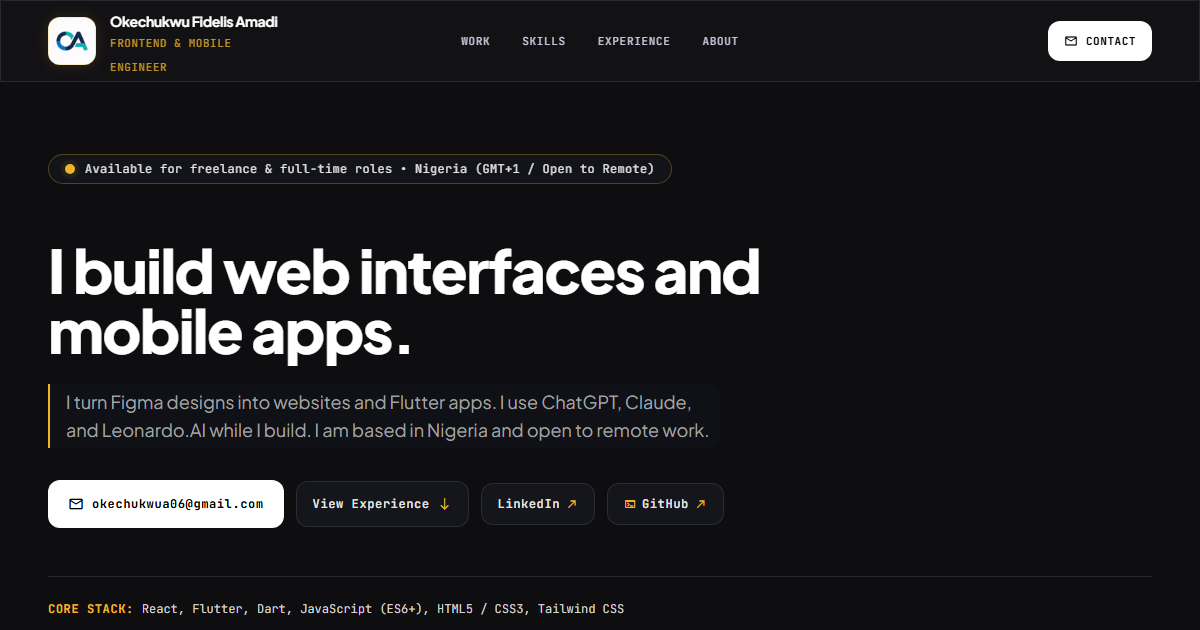
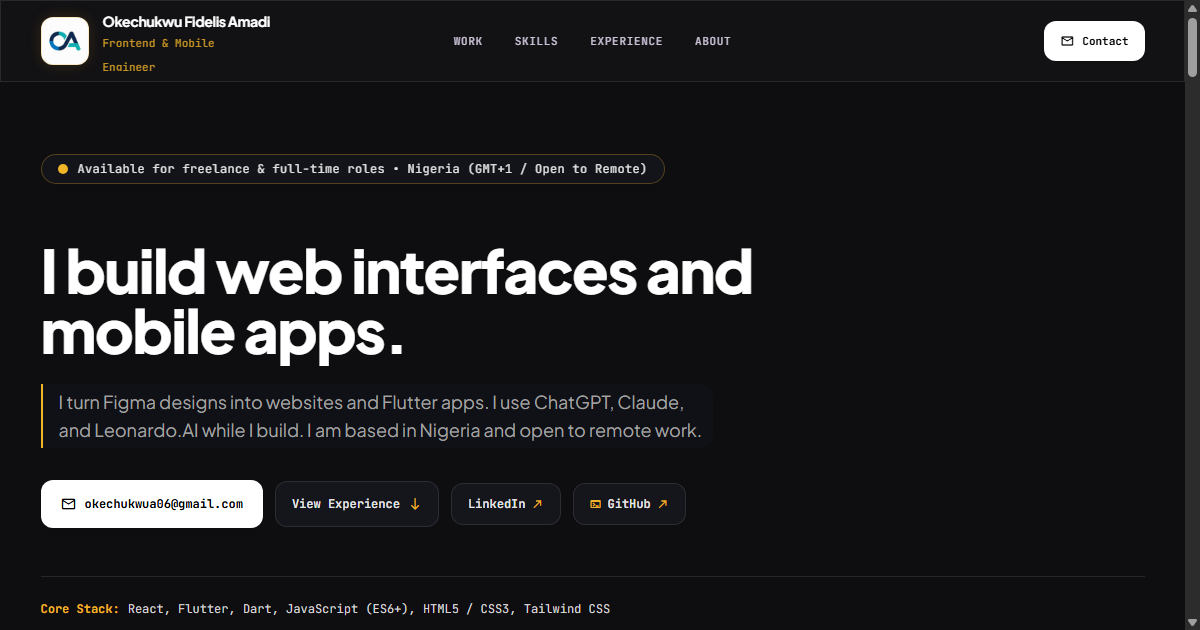
Drop uppercase eyebrow styling for plain typography
Sentence-case rendering for taglines, buttons, labels, category
lines, and the footer line; re-capture og-image to match the hero.

Generated with Codebuff 🤖

diff --git a/partials/contact.html b/partials/contact.html
@@ -14,23 +14,23 @@
     </p>
 <div class="space-y-3 font-mono text-xs">
 <div class="kinetic-card rounded-xl p-4 flex items-center justify-between">
-<span class="text-neutral-400 uppercase text-[11px] font-semibold">Email</span>
+<span class="text-neutral-400 text-[11px] font-semibold">Email</span>
 <a class="text-[#f0b429] hover:text-white font-semibold underline decoration-[#f0b429]/40 transition-colors" href="mailto:okechukwua06@gmail.com">
           okechukwua06@gmail.com
         </a>
 </div>
 <div class="kinetic-card rounded-xl p-4 flex items-center justify-between">
-<span class="text-neutral-400 uppercase text-[11px] font-semibold">Phone / WhatsApp</span>
+<span class="text-neutral-400 text-[11px] font-semibold">Phone / WhatsApp</span>
 <a class="text-[#f0b429] hover:text-white font-semibold underline decoration-[#f0b429]/40 transition-colors" href="tel:+2349031704037">
           +2349031704037
         </a>
 </div>
 <div class="kinetic-card rounded-xl p-4 flex items-center justify-between">
-<span class="text-neutral-400 uppercase text-[11px] font-semibold">Location</span>
+<span class="text-neutral-400 text-[11px] font-semibold">Location</span>
 <span class="text-white font-semibold">Nigeria (Open to Remote)</span>
 </div>
 <div class="kinetic-card rounded-xl p-4 flex items-center justify-between">
-<span class="text-neutral-400 uppercase text-[11px] font-semibold">LinkedIn</span>
+<span class="text-neutral-400 text-[11px] font-semibold">LinkedIn</span>
 <a class="text-[#f0b429] hover:text-white font-semibold flex items-center gap-1 underline decoration-[#f0b429]/40 transition-colors" href="https://www.linkedin.com/in/okechukwu-amadi-968b8316a/" rel="noopener noreferrer" target="_blank">
 <span>View Profile</span>
 <span class="material-symbols-outlined text-xs">open_in_new</span>
@@ -42,16 +42,16 @@
 <form class="kinetic-card rounded-2xl p-6 sm:p-8 space-y-4" id="contact-form" novalidate>
 <div class="grid grid-cols-1 sm:grid-cols-2 gap-4">
 <div class="space-y-1.5">
-<label class="block text-xs font-mono uppercase tracking-wider font-semibold text-neutral-300" for="contact-name">Your Name *</label>
+<label class="block text-xs font-mono font-semibold text-neutral-300" for="contact-name">Your Name *</label>
 <input class="w-full px-4 py-3 rounded-lg bg-[#0b0c10] border border-white/10 text-white placeholder:text-neutral-500 text-xs font-body focus:outline-none focus:border-[#f0b429] transition-colors" id="contact-name" name="name" placeholder="Your name" required="" type="text"/>
 </div>
 <div class="space-y-1.5 relative">
-<label class="block text-xs font-mono uppercase tracking-wider font-semibold text-neutral-300" for="contact-email">Email Address *</label>
+<label class="block text-xs font-mono font-semibold text-neutral-300" for="contact-email">Email Address *</label>
 <input class="w-full px-4 py-3 rounded-lg bg-[#0b0c10] border border-white/10 text-white placeholder:text-neutral-500 text-xs font-body focus:outline-none focus:border-[#f0b429] transition-colors" id="contact-email" name="email" placeholder="you@example.com" required="" type="email"/>
 </div>
 </div>
 <div class="space-y-1.5">
-<label class="block text-xs font-mono uppercase tracking-wider font-semibold text-neutral-300" for="contact-service">Service Needed</label>
+<label class="block text-xs font-mono font-semibold text-neutral-300" for="contact-service">Service Needed</label>
 <select class="w-full px-4 py-3 rounded-lg bg-[#0b0c10] border border-white/10 text-white text-xs font-body focus:outline-none focus:border-[#f0b429] cursor-pointer transition-colors" id="contact-service" name="service">
 <option class="bg-[#0b0c10] text-white" value="frontend">Frontend Web Development (React / HTML &amp; CSS)</option>
 <option class="bg-[#0b0c10] text-white" value="flutter">Mobile App Development (Flutter / Cross-Platform)</option>
@@ -60,11 +60,11 @@
 </select>
 </div>
 <div class="space-y-1.5 hidden" id="service-other-wrap">
-<label class="block text-xs font-mono uppercase tracking-wider font-semibold text-neutral-300" for="contact-service-other">Brief Description *</label>
+<label class="block text-xs font-mono font-semibold text-neutral-300" for="contact-service-other">Brief Description *</label>
 <input class="w-full px-4 py-3 rounded-lg bg-[#0b0c10] border border-white/10 text-white placeholder:text-neutral-500 text-xs font-body focus:outline-none focus:border-[#f0b429] transition-colors" id="contact-service-other" maxlength="100" name="service_other" placeholder="e.g. Figma design to code, performance audit, consulting..." type="text"/>
 </div>
 <div class="space-y-1.5">
-<label class="block text-xs font-mono uppercase tracking-wider font-semibold text-neutral-300" for="contact-message">Project Overview</label>
+<label class="block text-xs font-mono font-semibold text-neutral-300" for="contact-message">Project Overview</label>
 <textarea class="w-full px-4 py-3 rounded-lg bg-[#0b0c10] border border-white/10 text-white placeholder:text-neutral-500 text-xs font-body focus:outline-none focus:border-[#f0b429] resize-none transition-colors" id="contact-message" name="message" placeholder="Tell me briefly about your project goals or role..." rows="4"></textarea>
 </div>
 <!-- Honeypot: invisible to humans, tempting to spam bots. If a bot
@@ -73,7 +73,7 @@
 <label for="contact-company">Company</label>
 <input autocomplete="off" id="contact-company" name="company" tabindex="-1" type="text"/>
 </div>
-<button class="kinetic-btn w-full py-3.5 rounded-lg bg-white hover:bg-neutral-200 text-black font-mono text-xs font-bold uppercase tracking-wider flex items-center justify-center gap-2 cursor-pointer shadow-sm transition-all disabled:opacity-50 disabled:cursor-not-allowed" id="contact-submit" type="submit">
+<button class="kinetic-btn w-full py-3.5 rounded-lg bg-white hover:bg-neutral-200 text-black font-mono text-xs font-bold flex items-center justify-center gap-2 cursor-pointer shadow-sm transition-all disabled:opacity-50 disabled:cursor-not-allowed" id="contact-submit" type="submit">
 <span class="material-symbols-outlined text-base font-bold">send</span>
 <span id="contact-submit-label">Send Inquiry</span>
 </button>

diff --git a/partials/hero.html b/partials/hero.html
@@ -15,26 +15,26 @@
       I turn Figma designs into websites and Flutter apps. I use ChatGPT, Claude, and Leonardo.AI while I build. I am based in Nigeria and open to remote work.
     </p>
 <div class="mt-8 flex flex-wrap items-center gap-3 font-mono text-xs">
-<a class="kinetic-btn inline-flex items-center gap-2 px-5 py-3 rounded-lg bg-white hover:bg-neutral-200 text-black font-bold tracking-wider shadow-sm" href="mailto:okechukwua06@gmail.com">
+<a class="kinetic-btn inline-flex items-center gap-2 px-5 py-3 rounded-lg bg-white hover:bg-neutral-200 text-black font-bold shadow-sm" href="mailto:okechukwua06@gmail.com">
 <span class="material-symbols-outlined text-base">mail</span>
 <span>okechukwua06@gmail.com</span>
 </a>
-<a class="kinetic-btn inline-flex items-center gap-2 px-4 py-3 rounded-lg bg-[#15161c] hover:bg-[#1c1e26] text-neutral-200 font-semibold tracking-wider border border-white/10 hover:border-[#f0b429]/30" href="#experience">
+<a class="kinetic-btn inline-flex items-center gap-2 px-4 py-3 rounded-lg bg-[#15161c] hover:bg-[#1c1e26] text-neutral-200 font-semibold border border-white/10 hover:border-[#f0b429]/30" href="#experience">
 <span>View Experience</span>
 <span class="material-symbols-outlined text-sm text-[#f0b429]">south</span>
 </a>
-<a class="kinetic-btn inline-flex items-center gap-1.5 px-4 py-3 rounded-lg bg-[#15161c] hover:bg-[#1c1e26] text-neutral-200 font-semibold tracking-wider border border-white/10 hover:border-[#f0b429]/30" href="https://www.linkedin.com/in/okechukwu-amadi-968b8316a/" rel="noopener noreferrer" target="_blank">
+<a class="kinetic-btn inline-flex items-center gap-1.5 px-4 py-3 rounded-lg bg-[#15161c] hover:bg-[#1c1e26] text-neutral-200 font-semibold border border-white/10 hover:border-[#f0b429]/30" href="https://www.linkedin.com/in/okechukwu-amadi-968b8316a/" rel="noopener noreferrer" target="_blank">
 <span>LinkedIn</span>
 <span class="material-symbols-outlined text-xs text-[#f0b429]">north_east</span>
 </a>
-<a class="kinetic-btn inline-flex items-center gap-1.5 px-4 py-3 rounded-lg bg-[#15161c] hover:bg-[#1c1e26] text-neutral-200 font-semibold tracking-wider border border-white/10 hover:border-[#f0b429]/30" href="https://github.com/Delian21" rel="noopener noreferrer" target="_blank">
+<a class="kinetic-btn inline-flex items-center gap-1.5 px-4 py-3 rounded-lg bg-[#15161c] hover:bg-[#1c1e26] text-neutral-200 font-semibold border border-white/10 hover:border-[#f0b429]/30" href="https://github.com/Delian21" rel="noopener noreferrer" target="_blank">
 <span class="material-symbols-outlined text-xs text-[#f0b429]">terminal</span>
 <span>GitHub</span>
 <span class="material-symbols-outlined text-xs text-[#f0b429]">north_east</span>
 </a>
 </div>
 <div class="mt-12 pt-6 border-t border-white/10 flex flex-wrap items-baseline gap-x-2 text-xs font-mono">
-<span class="font-bold uppercase tracking-wider text-[#f0b429]">
+<span class="font-bold text-[#f0b429]">
       Core Stack:
     </span>
 <span class="text-neutral-300">React, Flutter, Dart, JavaScript (ES6+), HTML5 / CSS3, Tailwind CSS</span>

diff --git a/partials/header.html b/partials/header.html
@@ -7,7 +7,7 @@
       </div>
       <div class="flex flex-col">
         <span class="text-sm font-bold text-white tracking-tight font-display"><span class="md:hidden">OFA</span><span class="hidden md:inline">Okechukwu Fidelis Amadi</span></span>
-        <span class="header-tagline text-[11px] text-[#f0b429]/80 font-mono uppercase tracking-wider font-medium">Frontend &amp; Mobile<br/>Engineer</span>
+        <span class="header-tagline text-[11px] text-[#f0b429]/80 font-mono font-medium">Frontend &amp; Mobile<br/>Engineer</span>
       </div>
     </a>
     <!-- Desktop inline navigation: section links + Contact CTA.
@@ -19,7 +19,7 @@
       <a class="header-link" href="#about">About</a>
     </nav>
     <!-- Contact CTA pinned to the right edge. -->
-    <a class="kinetic-btn inline-flex items-center gap-1.5 md:gap-2 px-3 md:px-4 py-1.5 md:py-2 rounded-lg bg-white hover:bg-neutral-200 text-black font-mono text-[10px] md:text-[11px] font-bold uppercase tracking-wider shadow-sm" href="#contact">
+    <a class="kinetic-btn inline-flex items-center gap-1.5 md:gap-2 px-3 md:px-4 py-1.5 md:py-2 rounded-lg bg-white hover:bg-neutral-200 text-black font-mono text-[10px] md:text-[11px] font-bold shadow-sm" href="#contact">
       <span aria-hidden="true" class="material-symbols-outlined text-sm">mail</span>
       Contact
     </a>

diff --git a/partials/work.html b/partials/work.html
@@ -17,7 +17,7 @@
 <h3 class="mt-6 text-2xl md:text-3xl font-bold text-white font-display tracking-tight">
         Mudd Cottage Herbhome
       </h3>
-<p class="mt-2 font-mono text-[11px] uppercase tracking-wider text-[#f0b429]">
+<p class="mt-2 font-mono text-[11px] text-[#f0b429]">
         Frontend &amp; UI · Web Platform
       </p>
 <p class="mt-3 max-w-3xl text-sm md:text-base text-neutral-400 leading-relaxed font-body">
@@ -48,7 +48,7 @@
 <h3 class="mt-6 text-2xl md:text-3xl font-bold text-white font-display tracking-tight">
         GrowBox Vendor Dashboard Web App
       </h3>
-<p class="mt-2 font-mono text-[11px] uppercase tracking-wider text-[#f0b429]">
+<p class="mt-2 font-mono text-[11px] text-[#f0b429]">
         Web App · Merchant Analytics · Prototype
       </p>
 <p class="mt-3 max-w-3xl text-sm md:text-base text-neutral-400 leading-relaxed font-body">
@@ -79,7 +79,7 @@
 <h3 class="mt-6 text-2xl md:text-3xl font-bold text-white font-display tracking-tight">
         GrowBox Mobile App
       </h3>
-<p class="mt-2 font-mono text-[11px] uppercase tracking-wider text-[#f0b429]">
+<p class="mt-2 font-mono text-[11px] text-[#f0b429]">
         Mobile App · E-Commerce Prototype
       </p>
 <p class="mt-3 max-w-3xl text-sm md:text-base text-neutral-400 leading-relaxed font-body">

diff --git a/partials/experience.html b/partials/experience.html
@@ -18,7 +18,7 @@
           May 2022 – Present
         </span>
 </div>
-<p class="text-xs font-mono uppercase tracking-wider text-[#f0b429] font-semibold">
+<p class="text-xs font-mono text-[#f0b429] font-semibold">
         Self-Employed • Remote
       </p>
 <p class="text-xs md:text-sm text-neutral-200 leading-relaxed font-body">
@@ -38,7 +38,7 @@
           Oct 2024 – Sep 2026
         </span>
 </div>
-<p class="text-xs font-mono uppercase tracking-wider text-[#f0b429] font-semibold">
+<p class="text-xs font-mono text-[#f0b429] font-semibold">
         Freelance / Digital Content Space
       </p>
 <p class="text-xs md:text-sm text-neutral-200 leading-relaxed font-body">

diff --git a/partials/about.html b/partials/about.html
@@ -33,7 +33,7 @@
         </p>
 </div>
 <div class="space-y-3.5">
-<div class="inline-block bg-[#f0b429]/10 border border-[#f0b429]/30 rounded-lg px-3.5 py-1 font-mono text-xs font-semibold uppercase tracking-wider text-[#f0b429]">
+<div class="inline-block bg-[#f0b429]/10 border border-[#f0b429]/30 rounded-lg px-3.5 py-1 font-mono text-xs font-semibold text-[#f0b429]">
           Education &amp; Credentials
         </div>
 <div class="space-y-3">

diff --git a/partials/footer.html b/partials/footer.html
@@ -13,7 +13,7 @@
 <a class="hover:text-[#f0b429] transition-colors" href="https://github.com/Delian21" rel="noopener noreferrer" target="_blank">GitHub</a>
 </div>
 <div>
-<span>© 2026 ALL RIGHTS RESERVED.</span>
+<span>© 2026 All rights reserved.</span>
 </div>
 </div>
 </footer>
